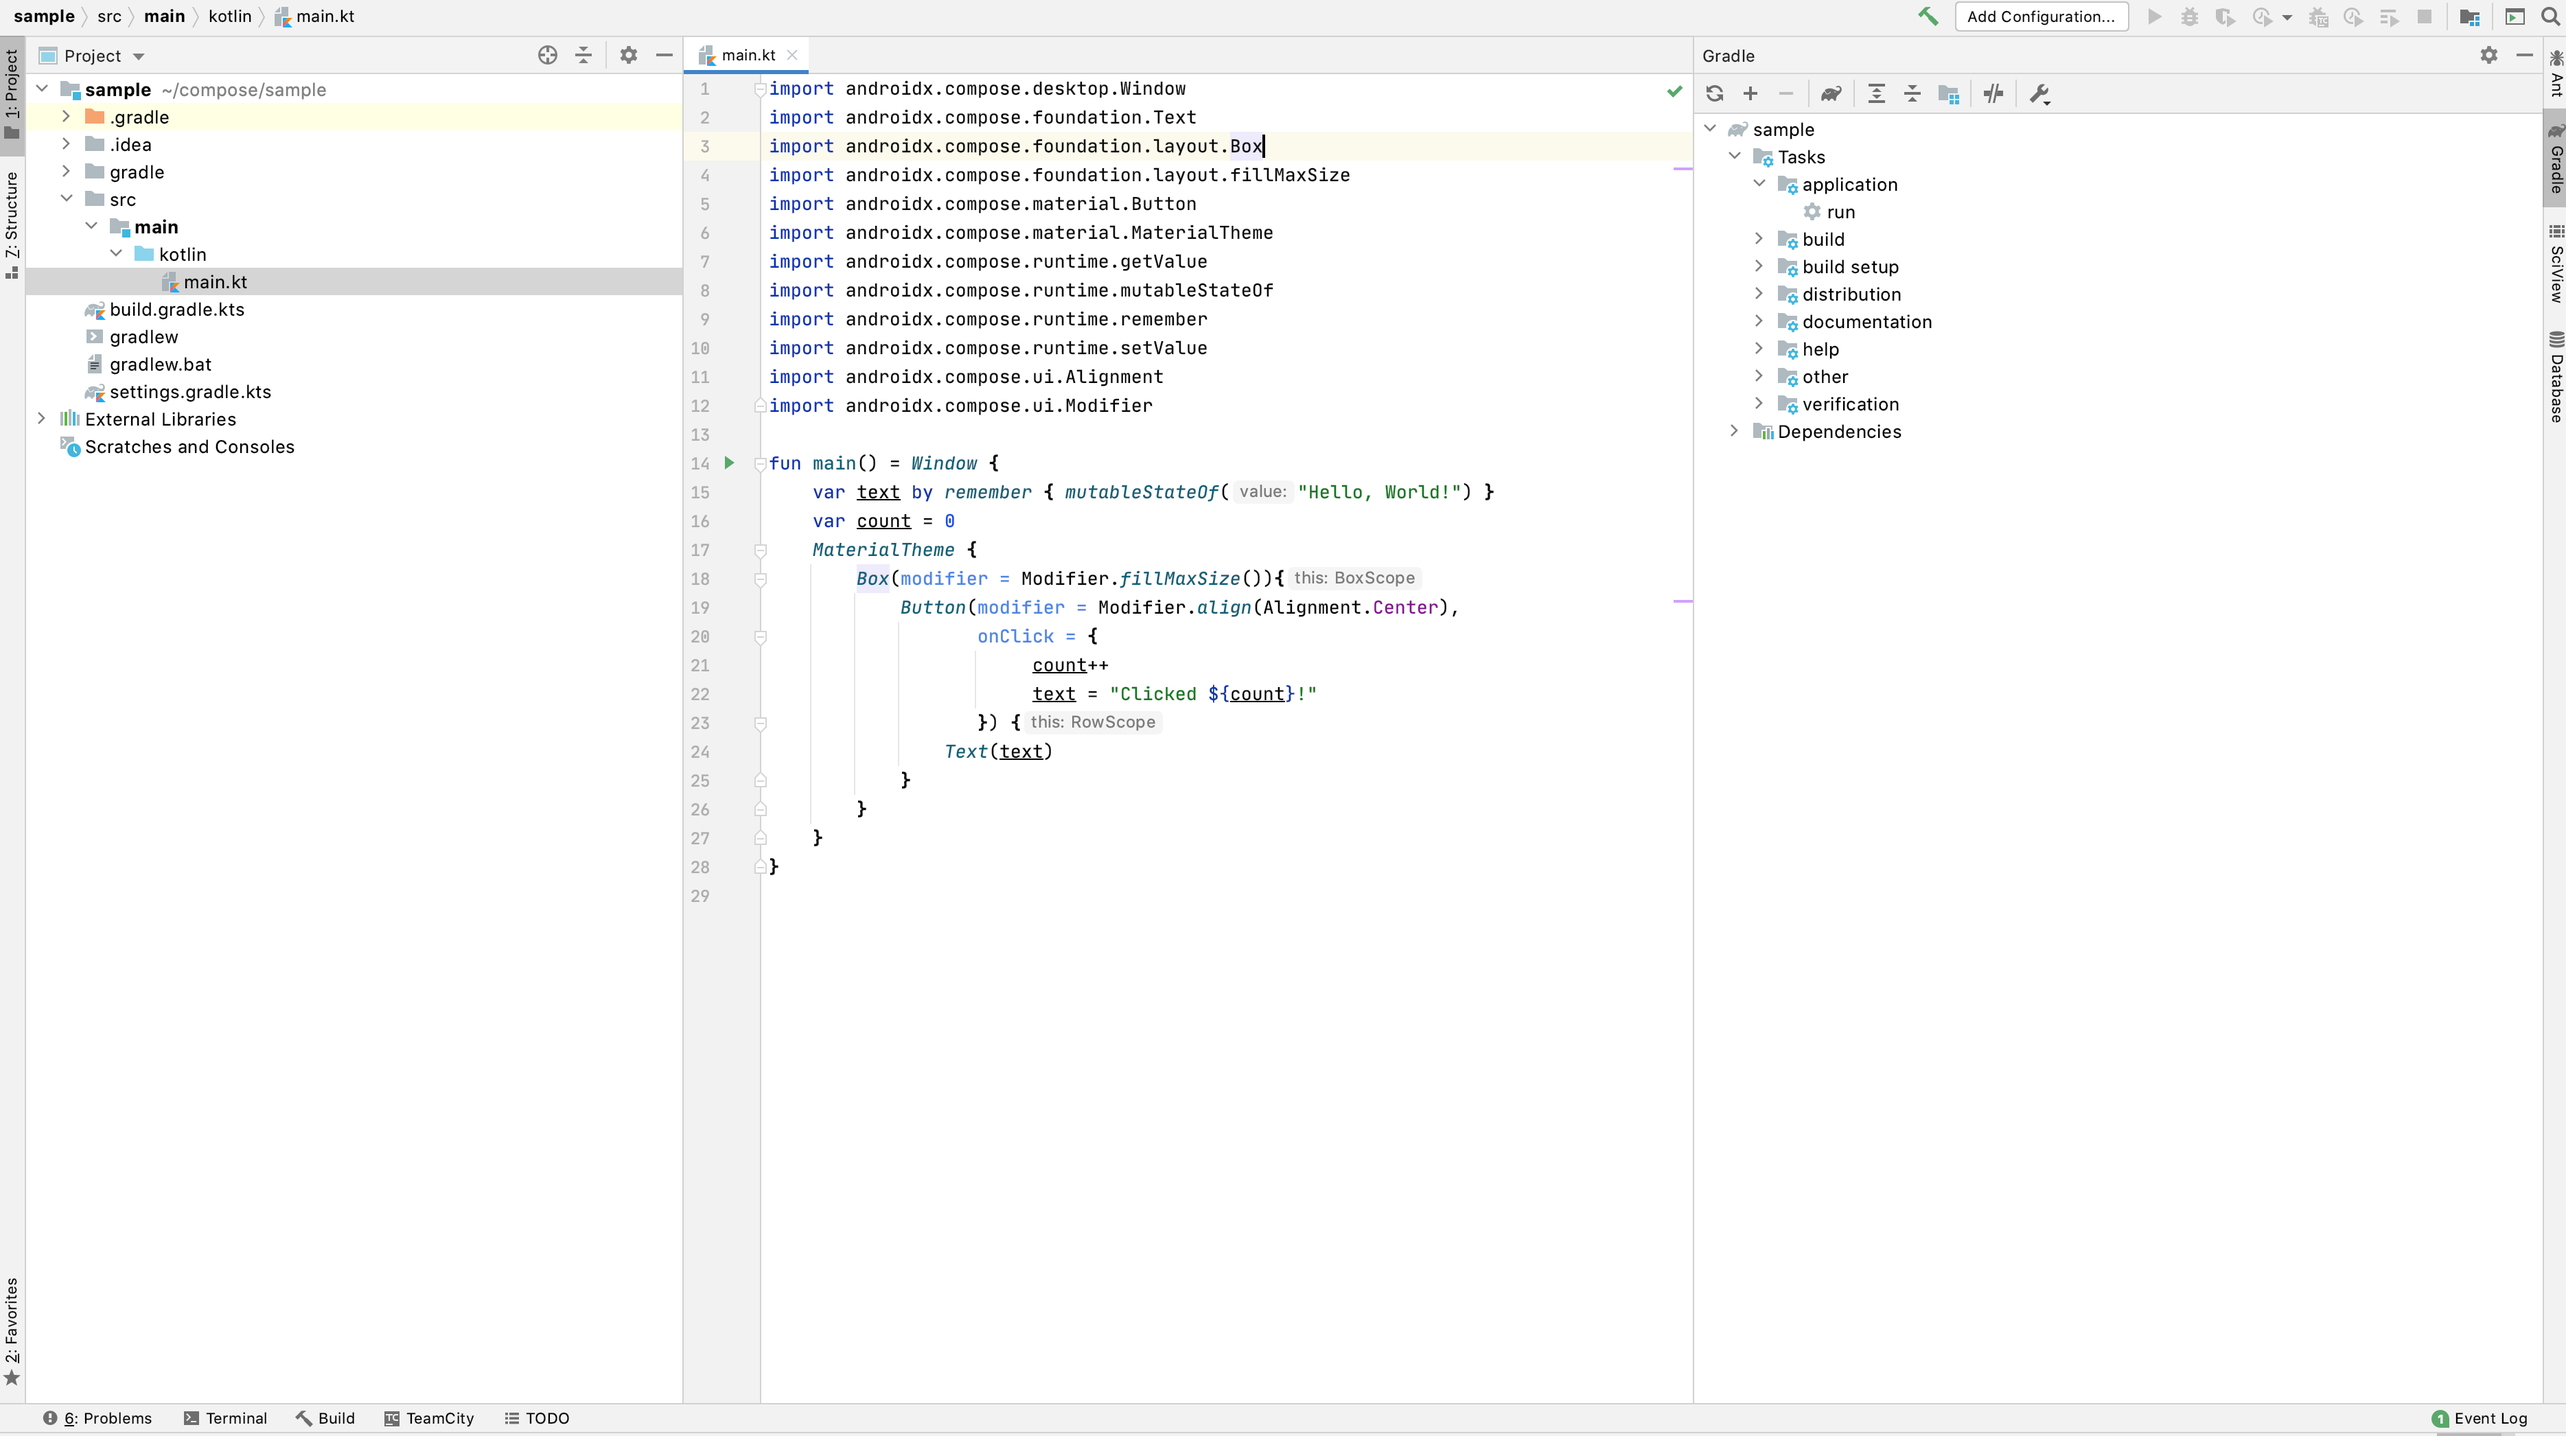
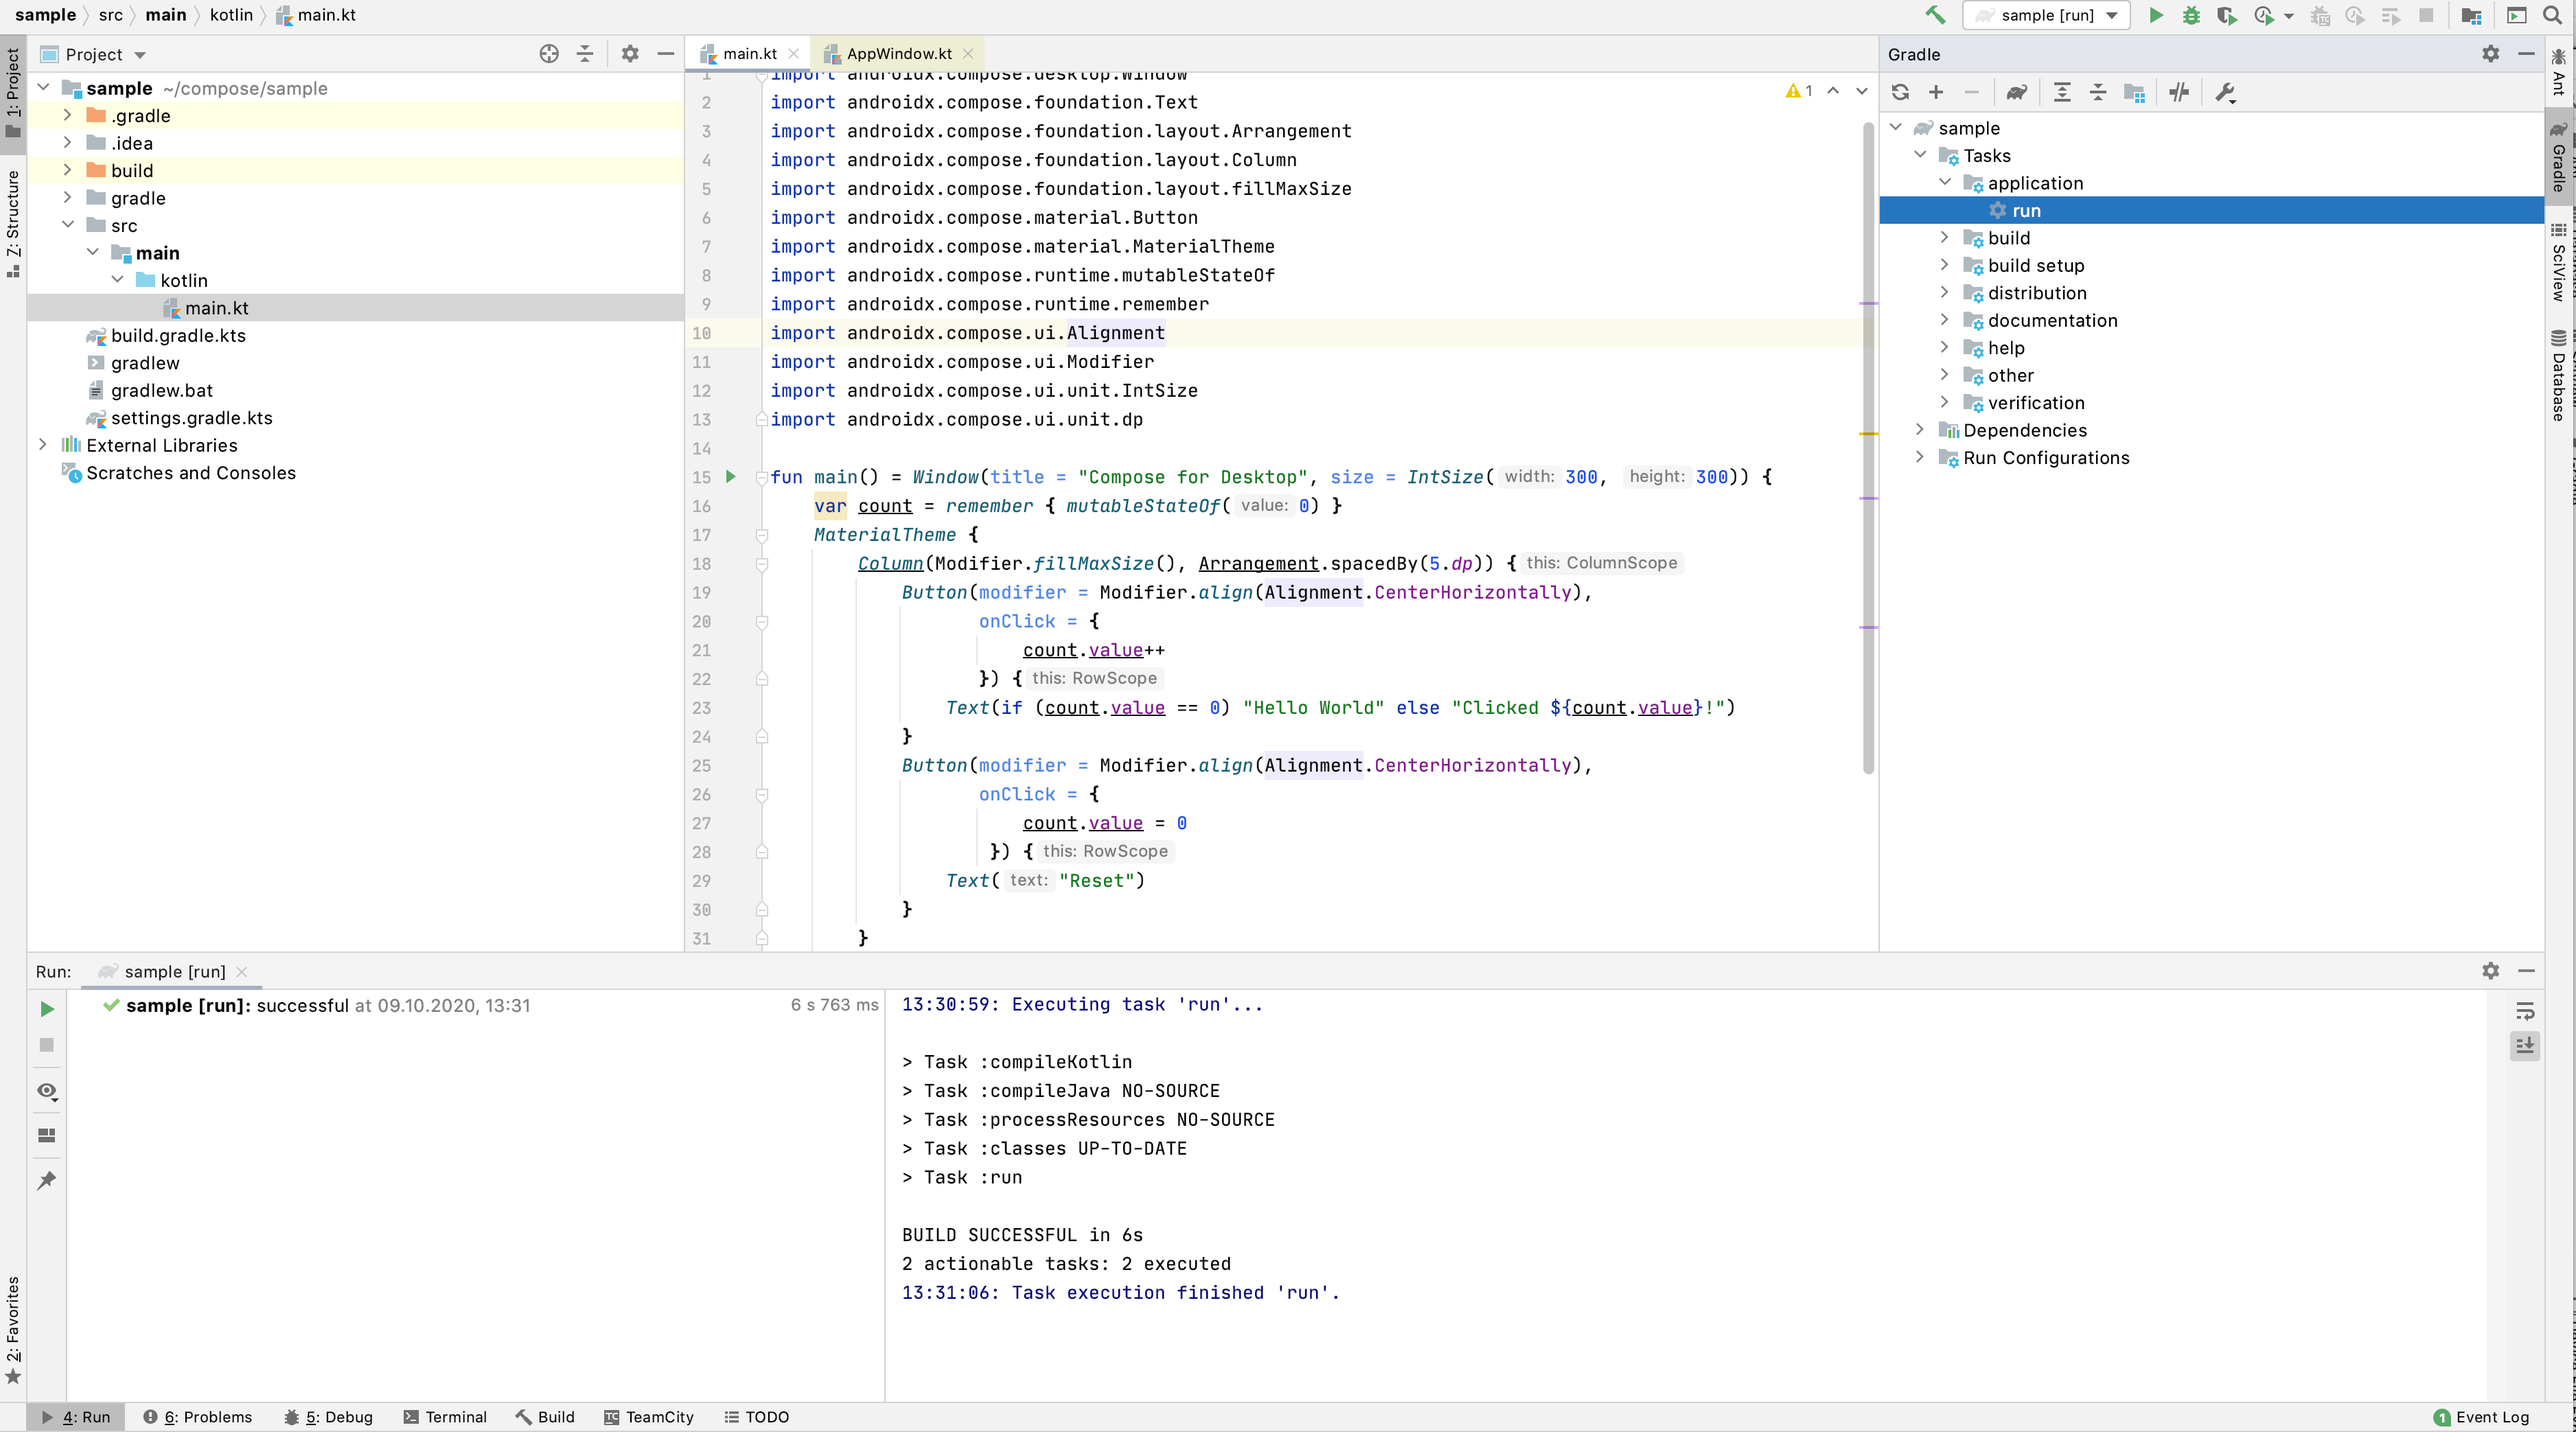
Small tweaks.

diff --git a/tutorials/Getting_Started/main.md b/tutorials/Getting_Started/main.md
@@ -72,9 +72,10 @@ import androidx.compose.runtime.mutableStateOf
 import androidx.compose.runtime.remember
 import androidx.compose.ui.Alignment
 import androidx.compose.ui.Modifier
+import androidx.compose.ui.unit.IntSize
 import androidx.compose.ui.unit.dp
 
-fun main() = Window {
+fun main() = Window(title = "Compose for Desktop", size = IntSize(300, 300)) {
     var count = remember { mutableStateOf(0) }
     MaterialTheme {
         Column(Modifier.fillMaxSize(), Arrangement.spacedBy(5.dp)) {
@@ -93,13 +94,15 @@ fun main() = Window {
         }
     }
 }
+
 ```
 Open `build.gradle.kts` as a project in IDEA.
 
 ![New project](screen1.png)
 
+
 After downloading Compose for Desktop dependencies from Maven repositories your new project is ready
-to go. Open Gradle toolbar on the right, and select `Tasks/applications/run`.
+to go. Open Gradle toolbar on the right, and select `sample/Tasks/applications/run`.
 First run may take some time, and afterwards following dialog will show up:
 
 ![Application running](screen2.gif)
